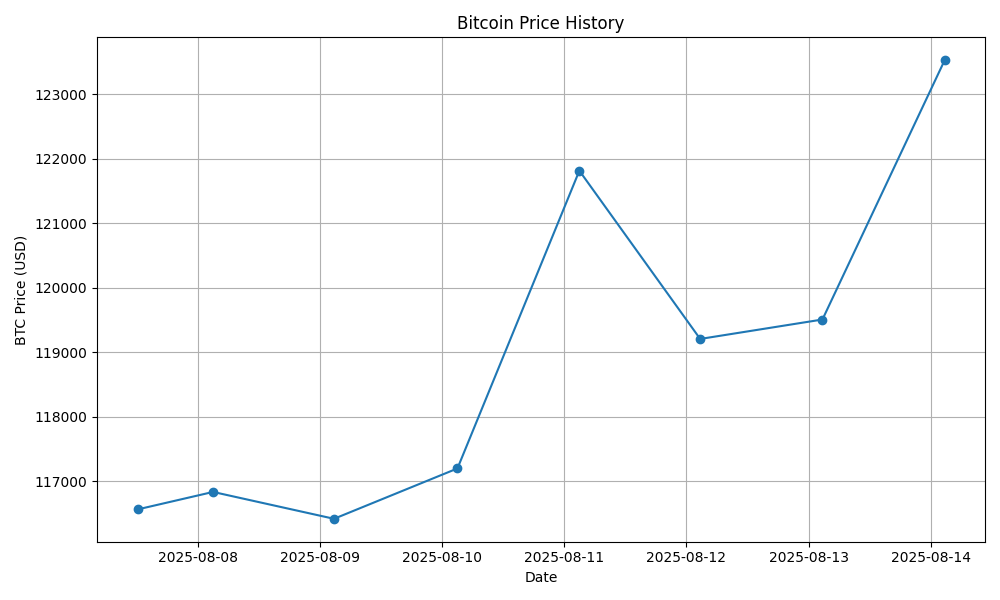
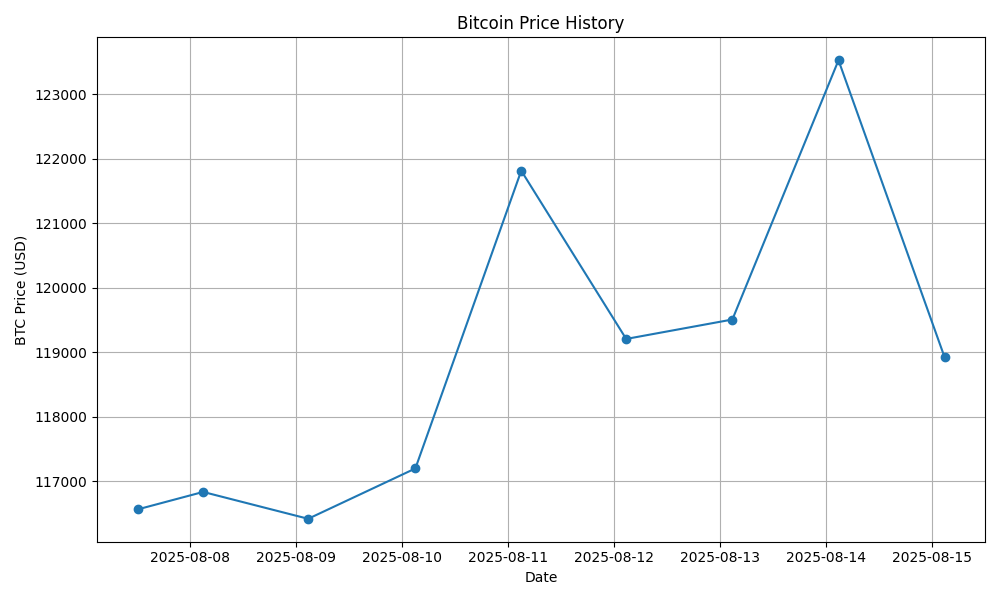
Update: BTC price, chart & README for 2025-08-15

diff --git a/README.md b/README.md
@@ -4,6 +4,6 @@ This project automatically fetches and charts the daily USD price of Bitcoin.
 
 ## Latest Stats
 
-## Latest price (USD): <!--BTC_PRICE-->123523<!--/BTC_PRICE-->
+## Latest price (USD): <!--BTC_PRICE-->118920<!--/BTC_PRICE-->
 
 ![BTC Historical Chart](btc_price_history.png)
